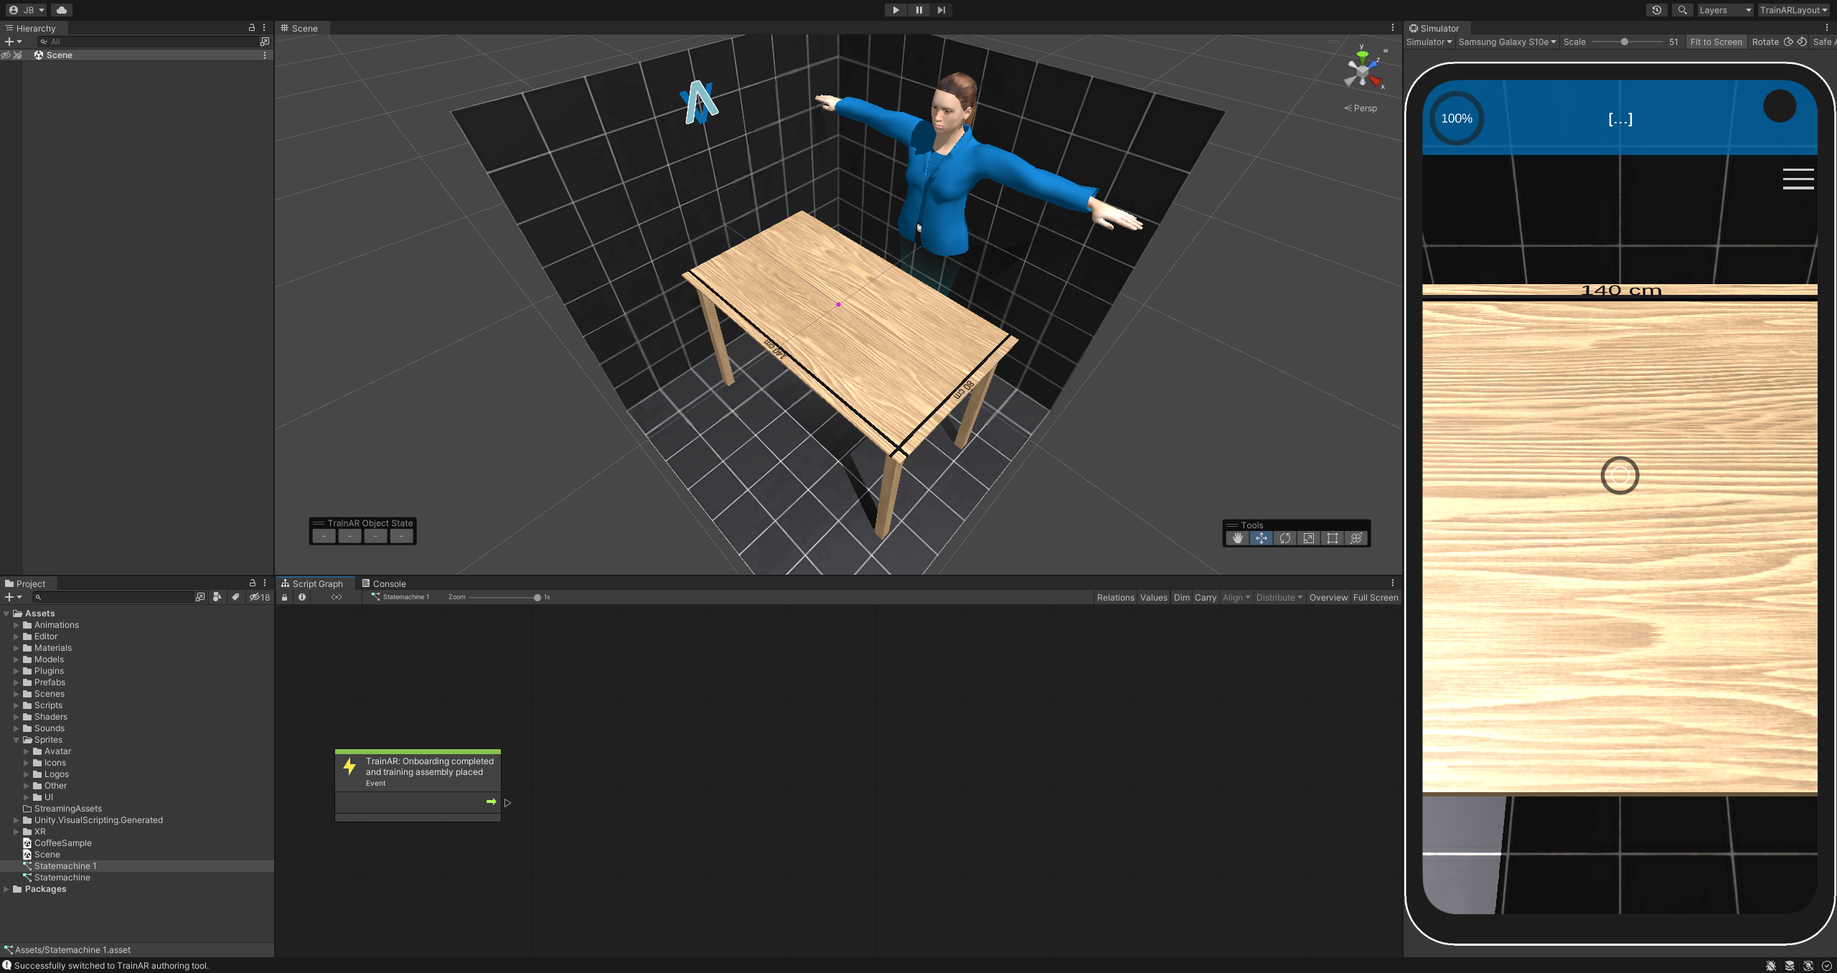
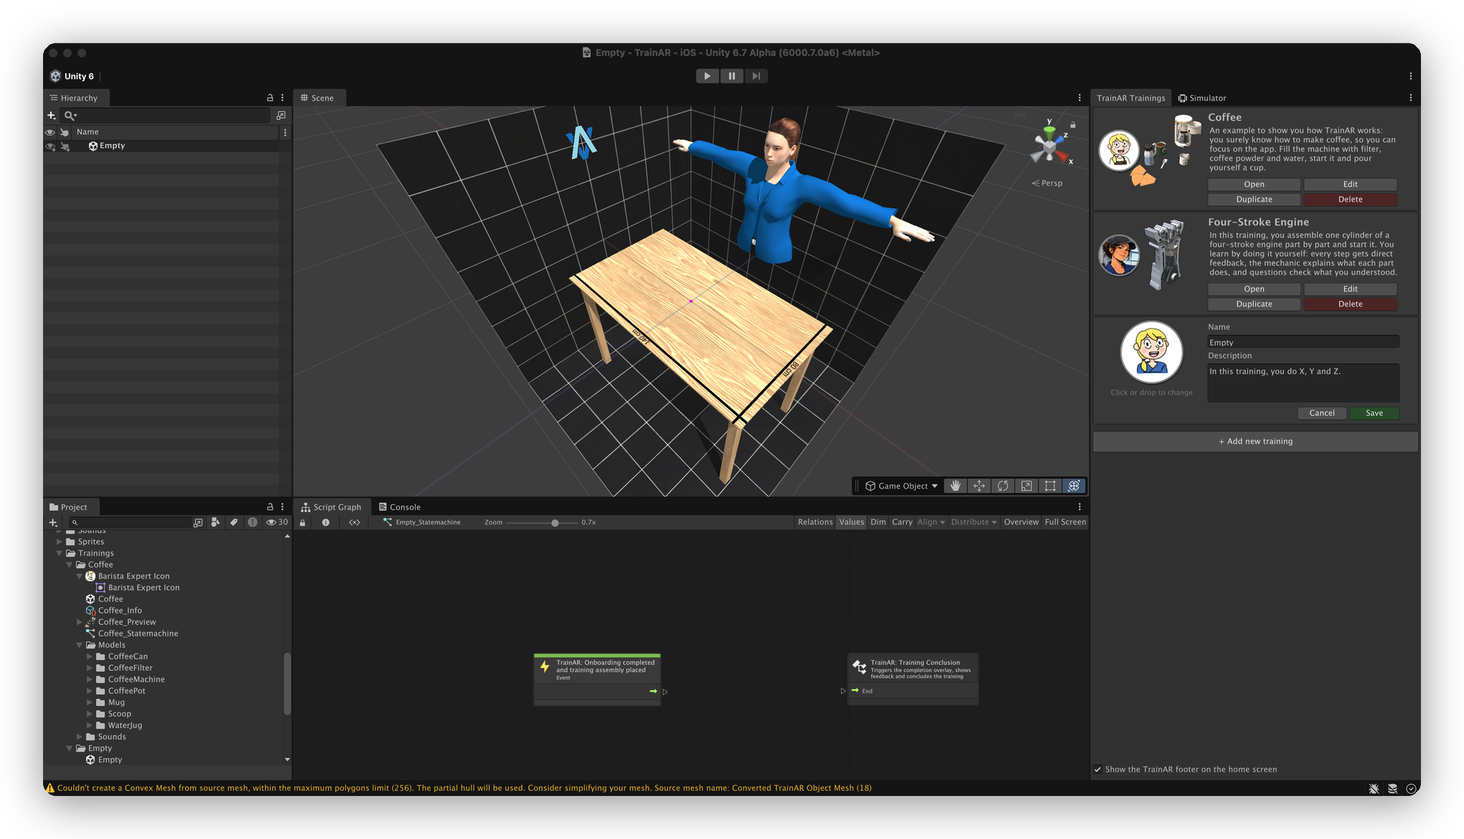
Updated README and documentation for multiple trainings and the new app UI
- README: logo (light/dark), new authoring-to-app picture, transparent animations of
  both example trainings, included vs. research trainings separated
- Documentation: new screenshots of the app, editor and trainings tab, all onboarding
  animations on the Start Training Node page, updated node descriptions, full-width images
- Bugfixes: Creating a training opens its statemachine; typos in the Coffee training fixed

diff --git a/Documentation/templates/trainar/public/main.css b/Documentation/templates/trainar/public/main.css
@@ -27,3 +27,10 @@
   max-width: 100%;
   height: auto;
 }
+
+/* Screenshots and animations in the manual fill the text width, so small ones are not narrower than the text on large
+   screens (images with an explicit width, e.g. the phone pictures next to the nodes, keep it) */
+article p > img:not([width]) {
+  width: 100%;
+  height: auto;
+}

diff --git a/Assets/Editor/Scripts/TrainARTrainings.cs b/Assets/Editor/Scripts/TrainARTrainings.cs
@@ -128,6 +128,10 @@ namespace Editor.Scripts
             EditorUtility.SetDirty(created);
             Sync();
             ShowInProjectWindow(name);
+            // like opening a training: its statemachine in the Script Graph, the default view, the framework hidden
+            TrainAREditorMenu.ResetTrainARSceneToAuthoringToolDefault();
+            TrainAREditorMenu.ResetStatemachineToDefault();
+            TrainAREditorMenu.HideFrameworkHierarchy();
         }
 
         /// <summary>

diff --git a/README.md b/README.md
@@ -1,4 +1,9 @@
-# TrainAR
+<p align="center">
+  <picture>
+    <source media="(prefers-color-scheme: dark)" srcset="Documentation/resources/TrainARLogoDark.png">
+    <img src="Documentation/resources/TrainARLogo.png" alt="TrainAR" width="420">
+  </picture>
+</p>
 
 [![GitHub license](https://img.shields.io/badge/License-MIT-yellow.svg)](https://github.com/jblattgerste/TrainAR/blob/master/LICENSE) [![Maintenance](https://img.shields.io/badge/Maintained%3F-yes-green.svg)](https://github.com/jblattgerste/TrainAR/graphs/commit-activity) [![Made with Unity](https://img.shields.io/badge/Made%20with-Unity-57b9d3.svg?style=flat&logo=unity)](https://unity3d.com) [![Documentation](https://github.com/jblattgerste/TrainAR/actions/workflows/documentation.yml/badge.svg)](https://jblattgerste.github.io/TrainAR/)
 
@@ -6,20 +11,35 @@
 
 TrainAR is a holistic threefold combination of an interaction concept, didactic framework and authoring tool for Augmented Reality (AR) trainings on handheld Android and iOS devices ([Blattgerste et al. 2021](https://scholar.google.de/citations?view_op=view_citation&hl=en&user=k2xymcIAAAAJ&citation_for_view=k2xymcIAAAAJ:Y0pCki6q_DkC)). It is completely open source, free and offers non-programmers and programmers without AR-specific expertise aiding in the creation of interactive, engaging, procedural Augmented Reality trainings. This repository contains the technical components of the interaction concept and authoring tool of TrainAR in form of a custom Unity 6.7 Alpha (`6000.7.0a6`) Editor Extension. It can be used with the Unity Windows, macOS (Silicon), macOS (Intel), or Linux Editor and deploy to Android and iOS devices. The authoring tool already offers features like the onboarding animations, tracking solutions, assembly placements, evaluated interaction concepts, layered feedback modalities and training assessments of TrainAR out of the box. This allows authors of AR trainings to focus on the content of the training instead of technical challenges. Authors can simply import 3D models into the tool, convert them to TrainAR objects and reference them in a visual-scripting stateflow (that is inspired by work-process-analyses) to create a procedural flow of instructions, user actions and feedback.
 
-![Example TrainAR Authoring on a laptop with deployment to an android phone](https://raw.githubusercontent.com/jblattgerste/TrainAR/64a9372b05bf0e3656f8e2d8365d9b566a2de37d/Documentation/resources/ExampleAuthoring.png)
+![The TrainAR authoring tool in the Unity editor and the app with its home screen on an iPhone](Documentation/resources/TrainARAuthoringToApp.png)
+*Trainings are created in the Unity editor and deployed as one app: trainees choose a training on its home screen, go through a short onboarding and place the training in their surroundings.*
 
 The idea behind TrainAR is simple: Realistic deployments of head-mounted AR devices still remain a challenge today because of high costs, missing relevant training, and novelty of interactions that require in-depth onboarding. In contrast, smartphone-based AR would be realistically scalable today, while still retaining many of the learning benefits. At least in theory. While possible, most mobile AR learning applications focus on visualisation instead of interactions today, severely limiting their application scope. In line with recent findings that, in terms of training outcome, tangible interactions are not significantly increasing retention or transfer of knowledge compared to purely virtual interaction approaches ([Knierim et al. 2020](https://scholar.google.de/citations?view_op=view_citation&hl=en&user=oHubmTIAAAAJ&cstart=20&pagesize=80&citation_for_view=oHubmTIAAAAJ:RYcK_YlVTxYC)), the idea of TrainAR is a holistic and scalable solution for procedural task training using Augmented Reality on handheld AR devices. Hereby, the idea is not to replace practical trainings but use TrainAR scenarios for concept and procedure understanding in preparation for or retention training after the practical training sessions. In line with [Gagne 1984](https://psycnet.apa.org/record/1985-05816-001), it is envisioned as a novel type of multimedia source to train _intellectual skills_ and _cognitive strategies_ but does not train associated _motor skills_.
 
-## TrainAR Training Scenarios
-Several TrainAR trainings were already developed by us, researchers from partner universities, and students using preliminary versions of the TrainAR authoring tool. They span across the contexts of medical education, nursing education, chemical engineering, science educational, manual assembly, and everyday work tasks. A list of publications for some of the trainings can be found below.
+## Included Example Trainings
+These two trainings are part of this repository: open them in the authoring tool, deploy them right away, or use them as a starting point for your own.
 
-![Example TrainAR scenarios](https://raw.githubusercontent.com/jblattgerste/TrainAR/64a9372b05bf0e3656f8e2d8365d9b566a2de37d/Documentation/resources/ExampleScenarios.png)
+<table>
+<tr>
+<td width="50%" valign="top"><img src="Documentation/resources/ExampleCoffeeTraining.webp" alt="The coffee example training: filter, water and coffee powder go into the machine, the coffee brews and is poured into a mug"/><br><b>Coffee</b>: brew a pot of filter coffee. Everyone knows how to make coffee, so you can focus on how TrainAR works.</td>
+<td width="50%" valign="top"><img src="Documentation/resources/ExampleEngineTraining.webp" alt="The four-stroke engine example training: the parts of one cylinder are assembled step by step"/><br><b>Four-Stroke Engine</b>: assemble one cylinder of a four-stroke engine part by part and start it, while the expert explains every part and questions check what you understood.</td>
+</tr>
+</table>
 
-## Documentation & Getting Started
-If you want to try out already developed TrainAR trainings, here is a list of available Apps that utilize TrainAR:
+Both are part of the app you build from this repository: trainees choose them on its home screen. If you do not need them, delete them in the authoring tool's TrainAR Trainings tab.
+
+
+## Trainings Built with TrainAR (not included)
+These trainings were created with earlier versions of TrainAR by us, researchers from partner universities, and students. They are not part of this repository. They span the contexts of medical education, nursing education, chemical engineering, science education, manual assembly, and everyday work tasks; publications on some of them are listed [below](#publication-list).
+
+![Trainings from research projects, not included in this repository](https://raw.githubusercontent.com/jblattgerste/TrainAR/64a9372b05bf0e3656f8e2d8365d9b566a2de37d/Documentation/resources/ExampleScenarios.png)
+*Trainings from research projects, not included in this repository.*
+
+Some of them can be tried out in apps that use TrainAR:
 - Training scenario "Preparation of a tocolytic injection" in the Heb@AR App [[Youtube](https://www.youtube.com/watch?v=CUyuzIkvvuk), [Android](https://play.google.com/store/apps/details?id=de.Mixality.HebAR) & [iOS](https://apps.apple.com/app/heb-ar/id1621822317)]
 - Training scenario "Pelvis Termini" in the Heb@AR App [[Youtube](https://www.youtube.com/watch?v=arTJ3lrHRkw), [Android](https://play.google.com/store/apps/details?id=de.Mixality.HebAR) & [iOS](https://apps.apple.com/app/heb-ar/id1621822317)]
 
+## Documentation & Getting Started
 If you want to get started with creating, deploying and playing with your own TrainAR training, check out our [Getting Started Guide](https://jblattgerste.github.io/TrainAR/manual/GettingStarted.html). You can either use the two example trainings that ship with this repository (Coffee and Four-Stroke Engine), or create your own simple training from the guide in less than half an hour. One project can hold any number of trainings: the app shows them all on its home screen. Beyond the Getting Started Guide, a full documentation is available detailing the available [visual scripting nodes](https://jblattgerste.github.io/TrainAR/manual/TrainARNodes.html), how to [create TrainAR objects](https://jblattgerste.github.io/TrainAR/manual/TrainARObjects.html) and how to [use nodes to implement action flows](https://jblattgerste.github.io/TrainAR/manual/VisualScripting.html). Additionally, a complete documentation of all [API references](https://jblattgerste.github.io/TrainAR/api/Interaction.html) is included.
 
 A key idea behind TrainAR is the retention of the full Unity capabilities while offering a higher-level abstraction for non-programmers to get started with AR authoring. Therefore, it can also be utilized without the visual scripting and without the TrainAR authoring overlay, using the standard Unity Editor Overlay and C# programming. This could for example be interesting, if you want to implement non-procedural educational games or you are only interested in the components of the interaction concept and not so much the authoring tool itself. For this, check out the [Advanced Options](https://jblattgerste.github.io/TrainAR/manual/NoVisualScripting.html) documentation.

diff --git a/Documentation/manual/StartTrainingNode.md b/Documentation/manual/StartTrainingNode.md
@@ -1,6 +1,6 @@
 # Start Training Node
 
-The (green) Visual Scripting node called **TrainAR: Onboarding completed and training assembly placed** is an event node that is automatically executed when the TrainAR framework recognizes that the user of the training finished watching the onboarding, a surface was found and the training assembly was placed by the user. It acts as a starting point for a TrainAR training created by the author.
+The (green) Visual Scripting node called **TrainAR: Onboarding completed and training assembly placed** is an event node that is automatically executed when the user of the training went through the onboarding (the start pages explaining the interaction concept, read aloud), scanned a surface and placed the training assembly with the **Place** button. It acts as a starting point for a TrainAR training created by the author.
 
 > [!IMPORTANT]
 > There should be only one **TrainAR: Onboarding completed and training assembly placed** node present in a TrainAR Stateflow.
@@ -15,3 +15,29 @@ The (green) Visual Scripting node called **TrainAR: Onboarding completed and tra
 |![TrainAR starting node](../resources/StartEvent.png)|<img src="../resources/TrainAR_Training_Onboarding.png" alt="Phone showing TrainAR onboarding" width="300"/>|
 
 </div>
+
+## What happens before this node
+
+Before the stateflow starts, TrainAR takes the trainee through the same steps in every training. Authors do not have to build any of this: it is part of the framework and uses the name, description and expert of the training (see [Managing Trainings](Trainings.md)).
+
+### 1. Home screen and start page
+
+The trainee chooses the training on the home screen. The first page presents it: the expert introduces the training with its description, and below it is the preview of the training's setup, which TrainAR renders automatically before every build.
+
+### 2. Onboarding
+
+Five short pages explain the interaction concept, each with an animation, and every page is read aloud. Trainees can skip the onboarding on its second page.
+
+| Page | What it explains |
+| :--- | :--- |
+| ![Instructions animation](../resources/OnboardingInstructions.webp) | **Instructions at the top**: the blue bar at the top tells the trainee the next action and shows the progress. A sound tells whether an action was correct. |
+| ![Interact animation](../resources/OnboardingInteract.webp) | **Interact**: point the cursor at an object and move the phone close until it is outlined in blue, then press **Interact**. |
+| ![Grab animation](../resources/OnboardingGrab.webp) | **Grab**: the same, then press **Grab**; the object moves with the phone until **Release** is pressed. |
+| ![Combine animation](../resources/OnboardingCombine.webp) | **Combine**: move a held object into another one; if they can be combined, it turns transparent and **Combine** appears. |
+| ![Insights and feedback animation](../resources/OnboardingInsights.webp) | **Insights and feedback**: the expert shares insights at the top, and for some incorrect actions an overlay explains what went wrong until **Understood** is tapped. |
+
+### 3. Scanning and placing
+
+<img src="../resources/OnboardingScan.webp" alt="Scanning animation" width="320"/>
+
+The trainee moves the phone over a table until it is detected, then places the training's setup with the **Place** button. Now this node is executed and the stateflow of the training starts.

diff --git a/Documentation/manual/TrainARBasics.md b/Documentation/manual/TrainARBasics.md
@@ -8,7 +8,7 @@ The TrainAR Authoring Tool can be utilized by understanding two basic concepts: 
 
 ![](../resources/TrainARBasicsOverview.png)
 
-As visualized in this figure, the TrainAR Authoring Tool provides an abstraction layer to easily access both. In blue is the Scene showing all TrainAR Objects currently in the training assembly. Here, their initial state can be manipulated (e.g. they can be positioned, rotated, they can prohibit being grabbed and be invisible at the start of the training). In Red is the TrainAR stateflow, where the flow of the training can be created and altered. The TrainAR Objects and TrainAR Stateflow can be connected by referencing TrainAR Objects in the TrainAR Stateflow by name.
+As visualized in this figure, the TrainAR Authoring Tool provides an abstraction layer to easily access both. In blue is the Scene showing all TrainAR Objects currently in the training assembly. Here, their initial state can be manipulated (e.g. they can be positioned, rotated, they can prohibit being grabbed and be invisible at the start of the training). In Red is the TrainAR stateflow, where the flow of the training can be created and altered. The TrainAR Objects and TrainAR Stateflow can be connected by referencing TrainAR Objects in the TrainAR Stateflow by name. In green is the TrainAR Trainings tab: one project can hold several trainings, each with its own TrainAR Objects and TrainAR Stateflow, and here they are opened, created and managed (see [Managing Trainings](Trainings.md)).
 
 The rest is handled by the framework. Features like the onboarding animations, tracking solutions, assembly placement, interaction concepts, layered feedback modalities, expert insights, state management and training assessments are taken care of automatically. Notably, they can also be altered and expanded upon as described in the [Advanced Options](https://jblattgerste.github.io/TrainAR/manual/NoVisualScripting.html), if necessary. To provide a reference on what is possible with TrainAR, the following showreel shows 5 exemplary TrainAR trainings and games that were developed with TrainAR and evaluated by researchers at University of Applied Sciences Emden/Leer, KU Leuven, and Utrecht University:
 

diff --git a/Documentation/manual/Trainings.md b/Documentation/manual/Trainings.md
@@ -6,12 +6,16 @@ One TrainAR project can hold any number of trainings. All of them are part of th
 
 The **TrainAR Trainings** tab sits next to the Simulator in the authoring tool. If it is not visible, choose **TrainAR → Options → Show Trainings List** (and **Show Simulator** to switch back).
 
+<img src="../resources/TrainARTrainingsTab.png" alt="The TrainAR Trainings tab with the Coffee and Four-Stroke Engine trainings" width="480"/>
+
 Every training is shown as a box with its preview, its expert, its name and its description. The buttons in each box:
 
 - **Open** opens the training in the authoring tool: its scene, its stateflow and the default view. The training that is currently open is marked with *(open in the authoring tool)*.
 - **Edit** lets you change the name, the description and the expert picture. Click the round expert (or drop a picture on it) to change it. **Save** applies your changes, **Cancel** discards them.
 - **Duplicate** creates a copy of the training under a new name, for example to start a variation of an existing training. The copy uses the same 3D models as the original.
 - **Delete** removes the training with everything in its folder. This cannot be undone. The last training of a project cannot be deleted.
+
+<img src="../resources/TrainARTrainingsEdit.png" alt="A training in edit mode: expert picture, name and description with Cancel and Save" width="480"/>
 
 **+ Add new training** at the bottom creates a new, empty training: the TrainAR scene without TrainAR Objects and a stateflow with only the **TrainAR: Onboarding completed and training assembly placed** node and the **TrainAR: Training Conclusion** node.
 

diff --git a/Documentation/manual/InsightNode.md b/Documentation/manual/InsightNode.md
@@ -1,6 +1,6 @@
 # Insight Node
 
-The TrainAR Insight nodes may be used to show additional insights, hints or tips to the user. Textual insights can also be given in combination with a soundfile (e.g. for voice recordings) and an image may be specified in this node. This could for example be the "expert" providing the insights.
+The TrainAR Insight nodes may be used to show additional insights, hints or tips to the user. Textual insights can also be given in combination with a soundfile (e.g. for voice recordings) and an image may be specified in this node. This could for example be the "expert" providing the insights. If no image is specified, the expert of the training is shown (set in the [TrainAR Trainings tab](Trainings.md)). The picture is always shown round, whatever its shape. Insights appear at the top of the screen and disappear on their own.
 
 From the didactic perspective, this is intended to be used to provide additional insights or tips from experience/practise to the user: Telling the user how this would look in practice, telling the user what he should be careful about when training this procedure in real life. It is not intended to provide direct feedback or new instructions to the user. For more detail, read our publication on the TrainAR interaction concept and didactic framework: ["TrainAR: A Scalable Interaction Concept and Didactic Framework for Procedural Trainings Using Handheld Augmented Reality"](https://www.mdpi.com/2414-4088/5/7/30)
 

diff --git a/Documentation/manual/GettingStarted.md b/Documentation/manual/GettingStarted.md
@@ -12,7 +12,7 @@ As you can see, the Coffee example training is open. Next to the Simulator on th
 
 ![](../resources/TrainAR_Overview.PNG)
 
-In the scene window you should now see the reference setup of the current Workspace (a room of black tiles, a table and a female character) but no TrainAR Objects in the Hierarchy or Scene. The stateflow only contains the green **TrainAR: Onboarding completed and training assembly placed** node, where every training starts, and the **TrainAR: Training Conclusion** node, where it ends. The reference setup should give you an idea of the size of objects in regards to the real world when viewed in the authoring tool and is not deployed with the TrainAR training.
+In the scene window you should now see the reference setup of the current Workspace (a room of black tiles, a table and a female character) but no TrainAR Objects in the Hierarchy or Scene. The stateflow only contains the green **TrainAR: Onboarding completed and training assembly placed** node, where every training starts, and the **TrainAR: Training Conclusion** node, where it ends. The reference setup should give you an idea of the size of objects in regards to the real world when viewed in the authoring tool and is not deployed with the TrainAR training. The small magenta point in the middle of the table marks the placement point: the training is placed with this point where the trainee puts it down in the app.
 
 ## Create TrainAR Objects
 

diff --git a/Documentation/manual/FeedbackNode.md b/Documentation/manual/FeedbackNode.md
@@ -1,6 +1,6 @@
 # Feedback Node
 
-The Feedback Node triggers a UI-Overlay, which covers the whole smartphone screen and displays feedback to the user. Therefore its recommended use is for especially important textual feedback, where a simple red blinking outline would not be sufficient. In the node, a header text and the feedback text have to be specified.
+The Feedback Node triggers a UI-Overlay, which covers the whole smartphone screen and displays feedback to the user. Therefore its recommended use is for especially important textual feedback, where a simple red blinking outline would not be sufficient. In the node, a header text and the feedback text have to be specified. The overlay stays open until the user has read it and taps **Understood**; while it is open, the interaction buttons are hidden.
 
 From the didactic perspective, this is intended to be used to provide feedback to the user of the training: Telling the user what he did wrong or what he could do to continue. For more detail, read our publication on the TrainAR interaction concept and didactic framework: ["TrainAR: A Scalable Interaction Concept and Didactic Framework for Procedural Trainings Using Handheld Augmented Reality"](https://www.mdpi.com/2414-4088/5/7/30)
 

diff --git a/Documentation/manual/TrainingConclusionNode.md b/Documentation/manual/TrainingConclusionNode.md
@@ -1,6 +1,6 @@
 # Training Conclusion Node
 
-The **TrainAR: Training Conclusion** node is the end of the TrainAR stateflow and training. It opens a training assessment, providing an overview with various performance metrics, accumulated over the training. This e.g. includes a graph displaying the number of incorrect actions performed by the user during the training.
+The **TrainAR: Training Conclusion** node is the end of the TrainAR stateflow and training. It opens a training assessment, providing an overview with various performance metrics, accumulated over the training. This e.g. includes a graph displaying the number of incorrect actions performed by the user during the training. The expert of the training presents the result, and **End Training** brings the user back to the home screen with all trainings.
 
 > [!IMPORTANT]
 > There should be only one **TrainAR: Training Conclusion** node present in a TrainAR Stateflow but it can be triggered from multiple Outputs from different stateflows of the training.

diff --git a/Documentation/manual/UIActionNodes.md b/Documentation/manual/UIActionNodes.md
@@ -31,7 +31,7 @@ With the UI Task set to **Input Field**, the user has to type in his answer to a
 
 ### UI Task: List Selection
 
-With the UI Task set to **List Selection**, the user is presented with a scrollable list of possible answers, which can be defined, as well as their respective feedback, in the node. If the user chooses all correct items in the list, the **Correct** output is triggered.
+With the UI Task set to **List Selection**, the user is presented with a scrollable list of possible answers, which can be defined, as well as their respective feedback, in the node. If the user chooses all correct items in the list, the **Correct** output is triggered. Choosing an incorrect item shows its feedback inside the list; a tap on the question or the list closes it again.
  
 <div class="trainar-node-comparison" role="region" aria-label="TrainAR node and result comparison" tabindex="0">
 
